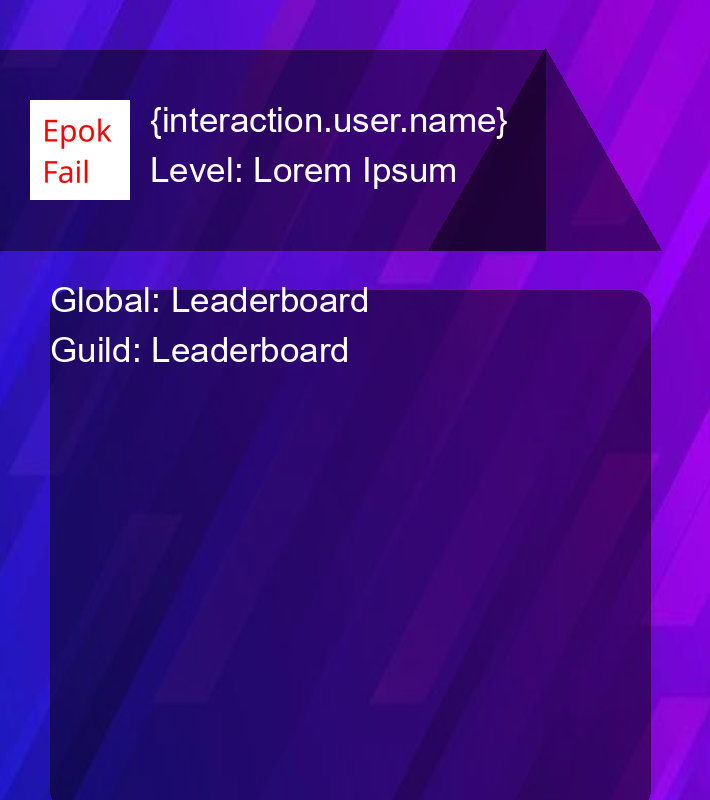
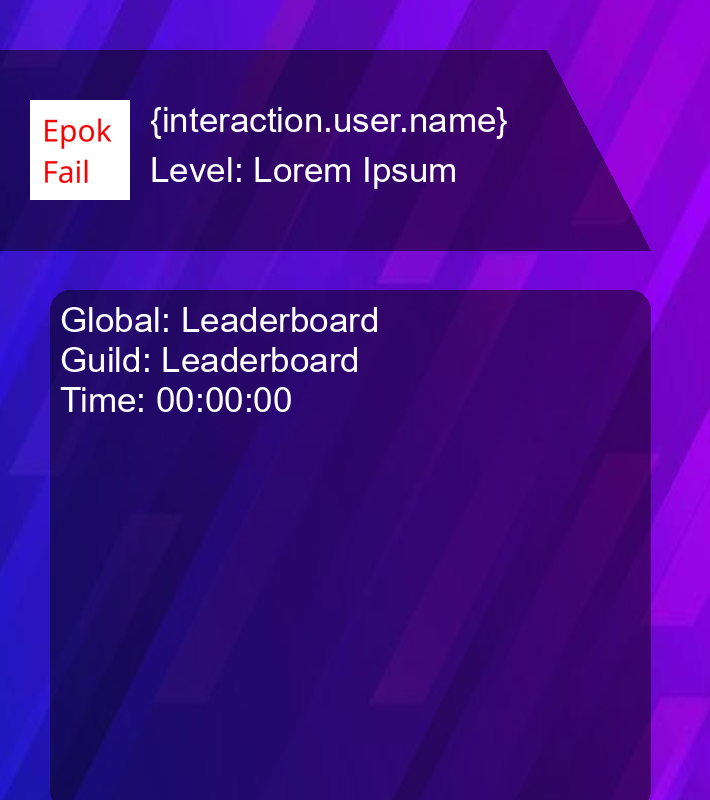
Default theme

diff --git a/commands/fun/levelsystem.py b/commands/fun/levelsystem.py
@@ -1,7 +1,9 @@
 #TODO Default profile theme finsih seccond part + colors
 
+import datetime
 import logging
 import math
+import time
 from io import BytesIO
 
 import discord
@@ -57,7 +59,7 @@ def parse_points(points):
     parsed_points = []
     for point in points:
         try:
-            x, y = map(int, point.split(','))
+            x, y = map(float, point.split(','))
             parsed_points.append((x, y))
         except ValueError:
             logging.error(f"Invalid point format: {point}")
@@ -74,6 +76,8 @@ def profile_gen(interaction: discord.Interaction, theme: str = "Default"):  # no
 
     context = {
         'interaction': interaction,
+        "time":time,
+        "datetime":datetime,
     }
     # Load and resize the background image
     if bg.startswith("#"):
@@ -91,7 +95,7 @@ def profile_gen(interaction: discord.Interaction, theme: str = "Default"):  # no
         if obj.get("text"):
             text = obj["text"]
             position = tuple(text.get('position', [0, 0]))
-            content = text.get('content', 'Lorem Ipsum')
+            content = eval_fstring(text.get('content', 'Lorem Ipsum'),context=context)  # noqa: E501
             size = text.get('size', 20)  # Default font size
             color = parse_color(text.get('color', [255, 255, 255]),text.get('opacity', 1.0))  # noqa: E501
 
@@ -191,24 +195,18 @@ def profile_gen(interaction: discord.Interaction, theme: str = "Default"):  # no
             triangle_draw.polygon(points, fill=color)
             background = Image.alpha_composite(background, triangle_layer)
 
-        else:
-            logging.warning(f"Unsupported or invalid object {obj} in theme {theme}, ignoring...")  # noqa: E501
         # Handle poly object with alpha compositing
-    for obj in objects:
-        logging.debug(obj)
-
-        # Handle poly object with alpha compositing
-        if obj.get("poly"):
+        elif obj.get("poly"):
             poly = obj["poly"]
 
             # Parse the points from strings to tuples
             points = parse_points(poly.get('points', []))
-            if not points or len(points) < 3:
+            if not points or len(points) < 3:  # noqa: PLR2004
                 logging.warning(f"Polygon with insufficient points: {points}")
                 continue
 
             # Get the color with opacity
-            color = parse_color(poly.get('color', [255, 255, 255]), poly.get('opacity', 1.0))
+            color = parse_color(poly.get('color', [255, 255, 255]), poly.get('opacity', 1.0))  # noqa: E501
 
             # Create a new transparent layer for the polygon
             poly_layer = Image.new('RGBA', background.size, (255, 255, 255, 0))
@@ -221,6 +219,8 @@ def profile_gen(interaction: discord.Interaction, theme: str = "Default"):  # no
             background = Image.alpha_composite(background, poly_layer)
             logging.debug(f"Drew polygon with points {points} and color {color}")
 
+        else:
+            logging.warning(f"Unsupported or invalid object {obj} in theme {theme}, ignoring...")  # noqa: E501
 
 
     # Save the image
